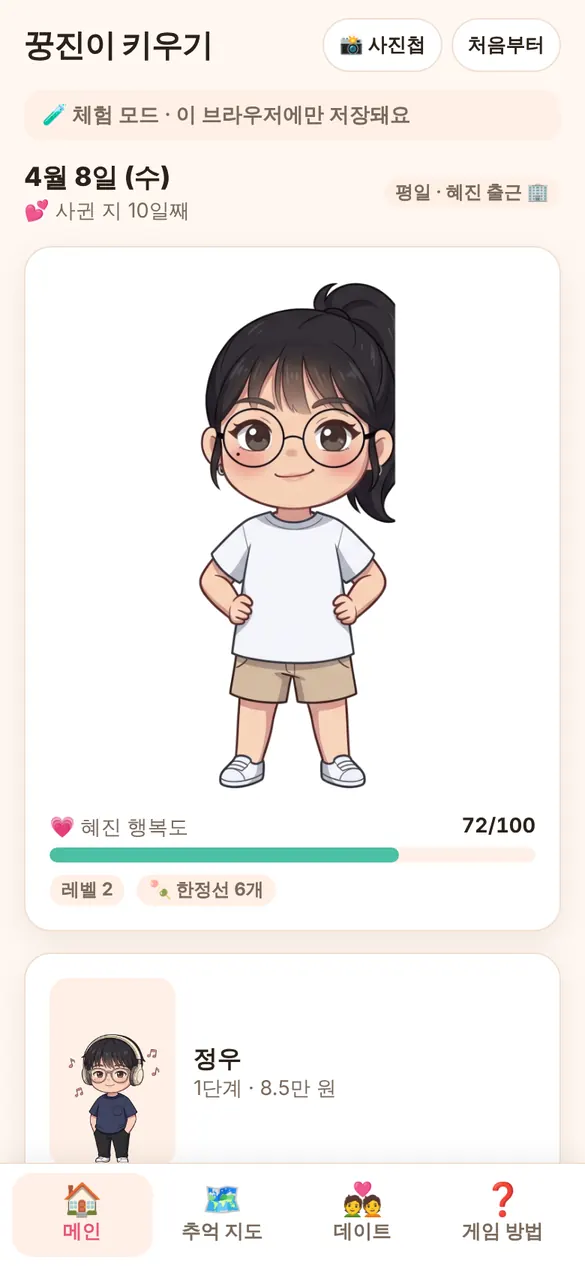
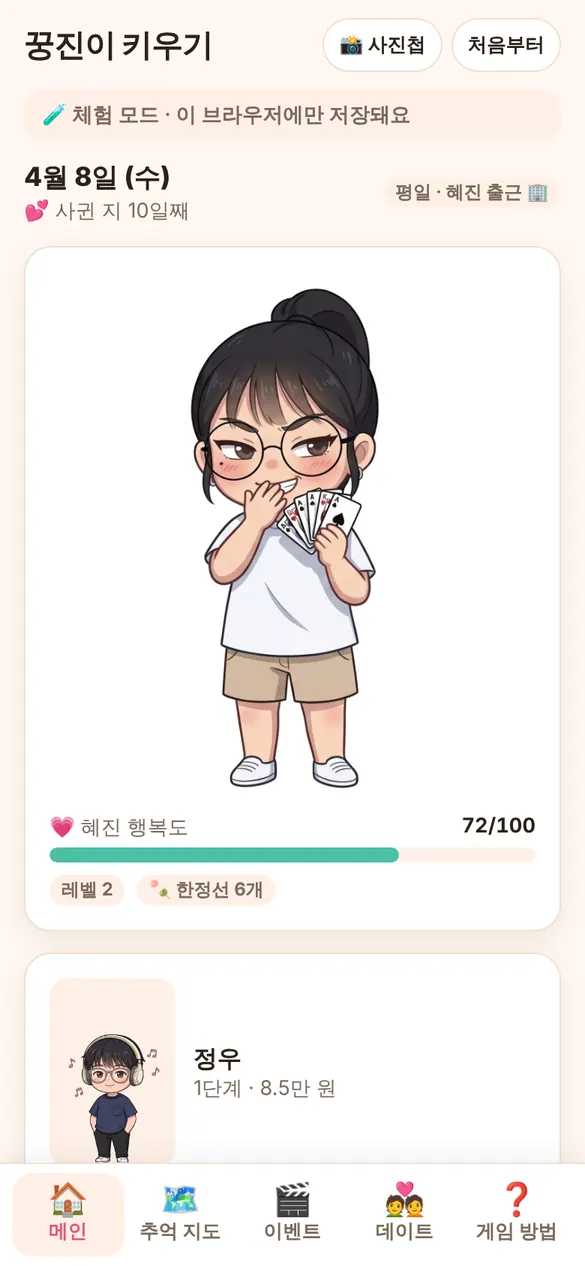
이벤트 탭(도감) 추가, 정우 막기 연출에 새 냉장고 그림 적용
- 게임 상태에 만난 이벤트 목록(seenEvents)을 남기고 구조 버전 v5로 올림. 기존 저장은 알 수 있는 것만 채움
- 불닭·번개 포커·민정다은·야식·정우 삐짐·승진·냉동실 사수·냉동실 털림 8개를 모아보는 🎬 이벤트 탭
  (모바일은 아래 탭, 넓은 화면은 추억 지도 아래). 그림은 src/content/eventArt.ts 에 경로만 채우면 됨
- 정우 막기 오버레이의 냉동고를 새로 받은 냉장고 일러스트(배경 제거)로 교체
- 게임 방법 캡처를 다시 찍고 이벤트 도감 설명·캡처 추가

Claude-Session: https://claude.ai/code/session_01WhdLuTYQ7ojGbfd6QVzvyj

diff --git a/src/app/components/GameShell.tsx b/src/app/components/GameShell.tsx
@@ -5,17 +5,18 @@ import { useState, type ReactNode } from "react";
 import { isWeekend } from "@/game/date";
 import type { GameView } from "@/ui/useGame";
 import DatePanel, { EMPTY_PLAN, type DatePlan } from "./DatePanel";
+import EventsPanel from "./EventsPanel";
 import MainPanel from "./MainPanel";
 import MapPanel from "./MapPanel";
 import { PopupLayer, ToastLayer } from "./PopupLayer";
 import styles from "./shell.module.css";
 
-type Tab = "main" | "map" | "date";
+type Tab = "main" | "map" | "events" | "date";
 
 /**
  * 게임 화면 틀.
  * - 모바일 세로: 한 번에 한 화면, 아래 탭으로 메인·맵·데이트 전환
- * - 넓은 화면: 메인·맵·데이트를 나란히
+ * - 넓은 화면: 메인·맵·데이트를 나란히 (이벤트는 맵 아래)
  */
 export default function GameShell({ view, banner, menu }: { view: GameView; banner?: ReactNode; menu?: ReactNode }) {
   const [tab, setTab] = useState<Tab>("main");
@@ -41,6 +42,7 @@ export default function GameShell({ view, banner, menu }: { view: GameView; bann
   const tabs: { id: Tab; label: string; emoji: string; dot?: boolean }[] = [
     { id: "main", label: "메인", emoji: "🏠" },
     { id: "map", label: "추억 지도", emoji: "🗺" },
+    { id: "events", label: "이벤트", emoji: "🎬" },
     { id: "date", label: "데이트", emoji: "💑", dot: dateOpen },
   ];
 
@@ -72,6 +74,9 @@ export default function GameShell({ view, banner, menu }: { view: GameView; bann
               setTab("date");
             }}
           />
+        </div>
+        <div className={styles.pane} data-pane="events">
+          <EventsPanel view={view} />
         </div>
         <div className={styles.pane} data-pane="date">
           <DatePanel view={view} plan={plan} setPlan={setPlan} />

diff --git a/src/ui/copy.ts b/src/ui/copy.ts
@@ -1,5 +1,5 @@
 import { BALANCE } from "@/game";
-import type { ActionError, SocialEventId } from "@/game/types";
+import type { ActionError, SocialEventId, StoryEventId } from "@/game/types";
 
 /** 화면 문구. 톤: "정우를 부려먹어서 혜진이를 키우는 게임" */
 
@@ -74,4 +74,16 @@ export const SOCIAL_TEXT: Record<
     body: "밤 11시, 혜진이가 갑자기 치킨이 먹고 싶대요.",
     choices: { order: { label: "치킨 시킨다", done: "야식은 진리. 둘 다 배부르고 행복 🍗" } },
   },
+};
+
+/** 이벤트 탭(도감) 문구 */
+export const STORY_TEXT: Record<StoryEventId, { emoji: string; title: string; caption: string }> = {
+  bulldak: { emoji: "🌶", title: "불닭이 땡기는 밤", caption: "평일 아침, 혜진이가 오늘 밤 불닭이 먹고 싶대요." },
+  poker: { emoji: SOCIAL_TEXT.poker.emoji, title: "번개 포커", caption: "정우 친구들이랑 밤새 포커 한 판." },
+  friends: { emoji: SOCIAL_TEXT.friends.emoji, title: "민정·다은이랑", caption: "혜진이가 민정이, 다은이랑 놀러 간 날." },
+  snack: { emoji: SOCIAL_TEXT.snack.emoji, title: "야식 번개", caption: "밤 11시에 갑자기 치킨." },
+  sulk: { emoji: "😤", title: "정우 삐짐", caption: "웨이팅 또 가라니까 정우가 방에 들어가 버렸어요." },
+  promoted: { emoji: "📈", title: "정우 승진", caption: "열심히 일한 정우가 승진했어요." },
+  block: { emoji: "🙅♂", title: "냉동실 사수", caption: "정우가 냉동실 앞을 몸으로 막아섰어요." },
+  raid: { emoji: "🧊", title: "냉동실 털림", caption: "혜진이가 냉동실 한정선을 절반 먹어치웠어요." },
 };

diff --git a/src/app/components/EventsPanel.tsx b/src/app/components/EventsPanel.tsx
@@ -1,0 +1,43 @@
+"use client";
+
+import { EVENT_ART } from "@/content/eventArt";
+import { STORY_EVENTS } from "@/game/seen";
+import { STORY_TEXT } from "@/ui/copy";
+import type { GameView } from "@/ui/useGame";
+import { PlaceArt } from "./ArtSlots";
+import { Card, Hint } from "./controls";
+import styles from "./map.module.css";
+
+/** 이벤트 도감: 지금까지 만난 이벤트 그림 모아보기 */
+export default function EventsPanel({ view }: { view: GameView }) {
+  const seen = view.game?.state.seenEvents;
+  if (!seen) return null;
+
+  return (
+    <Card title={`🎬 이벤트 (${seen.length}/${STORY_EVENTS.length})`}>
+      <ol className={styles.grid}>
+        {STORY_EVENTS.map((id) => {
+          const text = STORY_TEXT[id];
+          return seen.includes(id) ? (
+            <li key={id}>
+              <div className={styles.spot}>
+                <PlaceArt url={EVENT_ART[id] ?? undefined} label={text.title} emoji={text.emoji} />
+                <span className={styles.name}>{text.title}</span>
+                <span className={styles.meta}>{text.caption}</span>
+              </div>
+            </li>
+          ) : (
+            <li key={id}>
+              <div className={`${styles.spot} ${styles.lockedSpot}`}>
+                <PlaceArt locked label="아직 못 만난 이벤트" />
+                <span className={styles.name}>???</span>
+                <span className={styles.meta}>아직 못 만난 이벤트</span>
+              </div>
+            </li>
+          );
+        })}
+      </ol>
+      <Hint>게임하다 보면 이벤트가 하나씩 모여요.</Hint>
+    </Card>
+  );
+}

diff --git a/src/persistence/schema.ts b/src/persistence/schema.ts
@@ -1,12 +1,12 @@
 import { createInitialState } from "@/game/day";
-import type { GameState } from "@/game/types";
+import type { GameState, StoryEventId } from "@/game/types";
 
 /**
  * 저장되는 GameState 구조의 버전. GameState 모양을 바꾸면 1 올리고
  * MIGRATIONS에 (이전 버전 → 다음 버전) 변환 함수를 추가한다.
  * 동시 수정 방지용 버전(game_states.version)과는 별개다.
  */
-export const CURRENT_SCHEMA_VERSION = 4;
+export const CURRENT_SCHEMA_VERSION = 5;
 
 /** MIGRATIONS[n]: 구조 버전 n → n + 1 */
 const MIGRATIONS: Record<number, (raw: unknown) => unknown> = {
@@ -17,6 +17,16 @@ const MIGRATIONS: Record<number, (raw: unknown) => unknown> = {
   2: () => createInitialState(undefined, () => 0.999).state,
   // v4: 랜덤 이벤트. 진행 중인 게임은 이벤트 없음·피로 없음으로 시작한다.
   3: (raw) => ({ ...(raw as object), social: null, jungwooTiredActions: 0 }),
+  // v5: 이벤트 도감. 저장된 상태로 알 수 있는 것만 채운다 (오늘 이벤트, 승진, 정우가 막아준 적).
+  4: (raw) => {
+    const s = raw as Omit<GameState, "seenEvents">;
+    const seen: StoryEventId[] = [];
+    if (s.bulldak === "active") seen.push("bulldak");
+    if (s.social) seen.push(s.social);
+    if (s.jungwoo.rank > 1) seen.push("promoted");
+    if (s.hyejin.jungwooBlockUsed) seen.push("block");
+    return { ...s, seenEvents: seen };
+  },
 };
 
 /** 이 앱보다 새로운 구조로 저장된 상태 (다른 기기에서 새 버전 앱을 쓴 경우) */

diff --git a/src/app/components/shell.module.css b/src/app/components/shell.module.css
@@ -61,6 +61,7 @@
 /* 모바일: 선택한 탭만 보여준다 */
 .columns[data-tab="main"] > .pane:not([data-pane="main"]),
 .columns[data-tab="map"] > .pane:not([data-pane="map"]),
+.columns[data-tab="events"] > .pane:not([data-pane="events"]),
 .columns[data-tab="date"] > .pane:not([data-pane="date"]) {
   display: none;
 }
@@ -72,7 +73,7 @@
   right: 0;
   bottom: 0;
   display: grid;
-  grid-template-columns: repeat(4, 1fr);
+  grid-template-columns: repeat(5, 1fr);
   padding: 6px 8px max(6px, env(safe-area-inset-bottom));
   background: var(--surface);
   border-top: 1px solid var(--line);
@@ -131,14 +132,30 @@ a.tab {
 
   .columns {
     grid-template-columns: minmax(360px, 1.15fr) minmax(280px, 1fr) minmax(300px, 1fr);
+    grid-template-rows: auto 1fr;
+    grid-template-areas:
+      "main map date"
+      "main events date";
+  }
+
+  .columns > .pane[data-pane="main"] {
+    grid-area: main;
+  }
+
+  .columns > .pane[data-pane="map"] {
+    grid-area: map;
+  }
+
+  .columns > .pane[data-pane="events"] {
+    grid-area: events;
   }
 
   .columns > .pane {
     display: grid !important;
   }
 
-  .columns > .pane[data-pane="map"],
   .columns > .pane[data-pane="date"] {
+    grid-area: date;
     position: sticky;
     top: 20px;
   }

diff --git a/src/app/guide/page.tsx b/src/app/guide/page.tsx
@@ -27,6 +27,7 @@ const SHOTS = {
   block: { w: 525, h: 832, caption: "정우가 막아줄 때" },
   "date-plan": { w: 585, h: 1266, caption: "데이트 고르기" },
   "date-result": { w: 562, h: 592, caption: "다녀오면" },
+  events: { w: 585, h: 1266, caption: "이벤트 도감" },
 } as const;
 
 function Shots({ names }: { names: (keyof typeof SHOTS)[] }) {
@@ -197,12 +198,16 @@ export default function GuidePage() {
       <section className={styles.card}>
         <h2>✨ 그 밖에</h2>
         <ul>
+          <li>
+            <b>🎬 이벤트</b> 탭에는 지금까지 만난 이벤트(불닭, 번개 약속, 승진, 냉동실 사수 등)가 모여요. 아직 못 만난 건 ???로 보여요.
+          </li>
           <li>정우가 새 장소를 추가하면 다음 접속 때 &quot;새 추억이 추가됐어요!&quot; 알림이 떠요.</li>
           <li>메인 화면의 혜진이를 누르면 다른 포즈로 바뀌어요.</li>
           <li>
             위쪽 <b>📸 사진첩</b>에서 그동안 그린 혜진이와 정우를 전부 볼 수 있어요.
           </li>
         </ul>
+        <Shots names={["events"]} />
       </section>
     </div>
   );

diff --git a/src/game/day.ts b/src/game/day.ts
@@ -2,6 +2,7 @@ import { BULLDAK, DAY_END, HYEJIN, JUNGWOO, SOCIAL, TIME } from "./balance";
 import { addDays, daysBetween, isSunday, isWeekend } from "./date";
 import { addHyejinHappiness, emitWarningChange, updateCountdown } from "./hyejin";
 import { rollPercent } from "./rules";
+import { markSeen } from "./seen";
 import type { ActionContext, ActionError, ActionResult, GameDate, GameEvent, GameState, Rng, SocialEventId } from "./types";
 
 const SOCIAL_EVENTS = Object.keys(SOCIAL.EVENTS) as SocialEventId[];
@@ -85,11 +86,13 @@ export function createInitialState(
     lastSettledDate: firstDay,
     nights: { realDay: null, used: 0 },
     social: null,
+    seenEvents: [],
     jungwooTiredActions: 0,
     knownPlaceCount: null,
   };
   const events: GameEvent[] = [];
   startDay(state, firstDay, rng, events);
+  markSeen(state, events);
   return { state, events };
 }
 
@@ -99,6 +102,7 @@ export function closeDay(state: GameState, rng: Rng): { state: GameState; events
   const events: GameEvent[] = [];
   endDay(s, events);
   startDay(s, addDays(s.lastSettledDate, 1), rng, events);
+  markSeen(s, events);
   return { state: s, events };
 }
 

diff --git a/src/game/types.ts b/src/game/types.ts
@@ -45,6 +45,9 @@ export type BulldakState = "none" | "active" | "resolved";
 /** 랜덤 이벤트 종류 (balance.ts SOCIAL.EVENTS) */
 export type SocialEventId = "poker" | "friends" | "snack";
 
+/** 이벤트 탭에 모이는 이벤트. 랜덤 번개 약속 + 게임 중 생기는 사건들 */
+export type StoryEventId = SocialEventId | "bulldak" | "sulk" | "promoted" | "block" | "raid";
+
 export interface GameState {
   jungwoo: JungwooState;
   hyejin: HyejinState;
@@ -57,6 +60,8 @@ export interface GameState {
   lastSettledDate: GameDate;
   /** 오늘 생긴 랜덤 이벤트 (아직 안 골랐으면). 고르거나 하루가 끝나면 null */
   social: SocialEventId | null;
+  /** 지금까지 만난 이벤트 (이벤트 탭 도감). 처음 만난 순서대로 */
+  seenEvents: StoryEventId[];
   /** 내일 아침 정우 행동에서 뺄 수 (밤샘 포커 피로) */
   jungwooTiredActions: number;
   /** 현실 하루에 잔 밤 횟수. realDay가 바뀌면 0부터 다시 센다. */

diff --git a/src/game/seen.ts b/src/game/seen.ts
@@ -1,0 +1,31 @@
+import type { GameEvent, GameState, StoryEventId } from "./types";
+
+/** 이벤트 탭에 보여줄 순서 */
+export const STORY_EVENTS: readonly StoryEventId[] = ["bulldak", "poker", "friends", "snack", "sulk", "promoted", "block", "raid"];
+
+function storyId(e: GameEvent): StoryEventId | null {
+  switch (e.type) {
+    case "socialEvent":
+      return e.event;
+    case "bulldakCraving":
+      return "bulldak";
+    case "waitingRejected":
+      return "sulk";
+    case "promoted":
+      return "promoted";
+    case "jungwooBlocked":
+      return "block";
+    case "halfEaten":
+      return "raid";
+    default:
+      return null;
+  }
+}
+
+/** 이번에 처음 만난 이벤트를 도감에 남긴다 */
+export function markSeen(s: GameState, events: readonly GameEvent[]): void {
+  for (const e of events) {
+    const id = storyId(e);
+    if (id && !s.seenEvents.includes(id)) s.seenEvents.push(id);
+  }
+}

diff --git a/src/app/components/ArtSlots.tsx b/src/app/components/ArtSlots.tsx
@@ -4,8 +4,8 @@
  */
 import styles from "./art.module.css";
 
-/** 장소 사진 자리. 사진이 없으면 도형 + 이모지 */
-export function PlaceArt({ url, locked, label }: { url?: string; locked?: boolean; label: string }) {
+/** 장소 사진(이벤트 그림) 자리. 사진이 없으면 도형 + 이모지 */
+export function PlaceArt({ url, locked, label, emoji = "📍" }: { url?: string; locked?: boolean; label: string; emoji?: string }) {
   if (locked) {
     return (
       <span className={`${styles.place} ${styles.locked}`} role="img" aria-label="잠긴 장소">
@@ -19,7 +19,7 @@ export function PlaceArt({ url, locked, label }: { url?: string; locked?: boolea
   }
   return (
     <span className={styles.place} role="img" aria-label={label}>
-      📍
+      {emoji}
     </span>
   );
 }

diff --git a/src/game/__tests__/sleep.test.ts b/src/game/__tests__/sleep.test.ts
@@ -168,6 +168,13 @@ describe("랜덤 이벤트 (번개 약속)", () => {
     expect(closeDay(makeState(), sequence(0.999, 0.2)).state.social).toBeNull();
   });
 
+  it("만난 이벤트는 이벤트 도감에 한 번만 남는다", () => {
+    const { state } = closeDay(makeState(), sequence(0.999, 0.19, 0.99));
+    expect(state.seenEvents).toEqual(["snack"]);
+    const again = closeDay({ ...state, social: null }, sequence(0.999, 0.19, 0.99)).state;
+    expect(again.seenEvents).toEqual(["snack"]);
+  });
+
   it("고르지 않은 이벤트는 하루가 끝나면 사라진다 (벌점 없음)", () => {
     const { state } = closeDay(withEvent("friends"), NEVER);
     expect(state.social).toBeNull();

diff --git a/src/persistence/__tests__/session.test.ts b/src/persistence/__tests__/session.test.ts
@@ -252,6 +252,12 @@ describe("상태 구조 버전", () => {
     expect(() => migrateState(1, {}, {}, 2)).toThrow();
   });
 
+  it("v4 → v5: 저장된 상태로 알 수 있는 이벤트만 도감에 채운다", () => {
+    const v4: Partial<GameState> = makeState({ social: "poker", jungwoo: { rank: 2 }, hyejin: { jungwooBlockUsed: true } });
+    delete v4.seenEvents;
+    expect(migrateState(4, v4, undefined, 5).seenEvents).toEqual(["poker", "promoted", "block"]);
+  });
+
   it("앱보다 새로운 구조면 NewerSchemaError (오래된 탭이 덮어쓰지 않게)", async () => {
     const store = new MemoryGameStore({
       state: makeState(),
